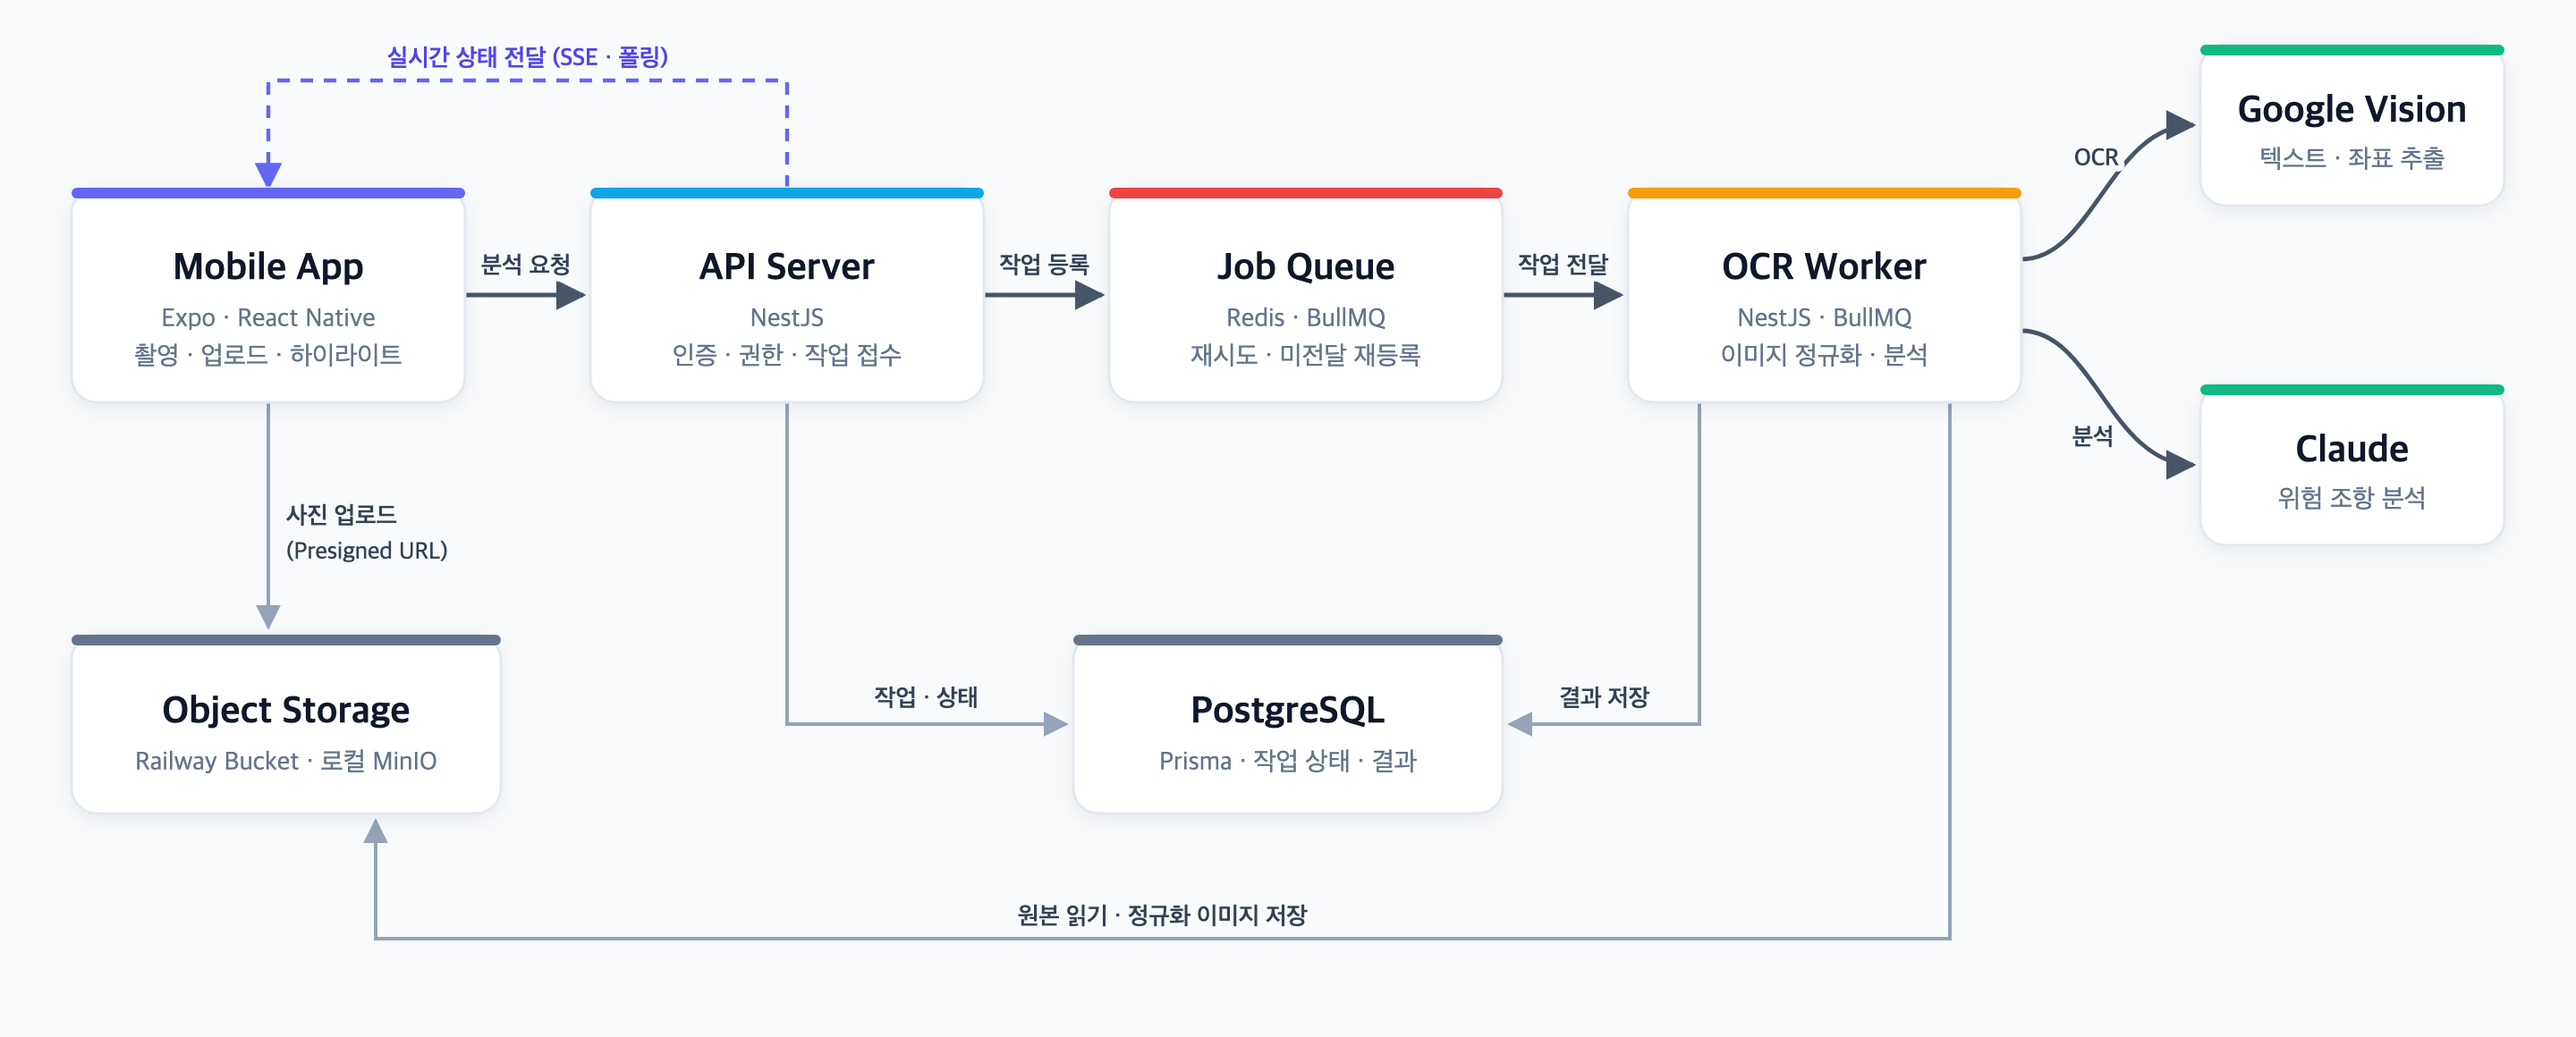
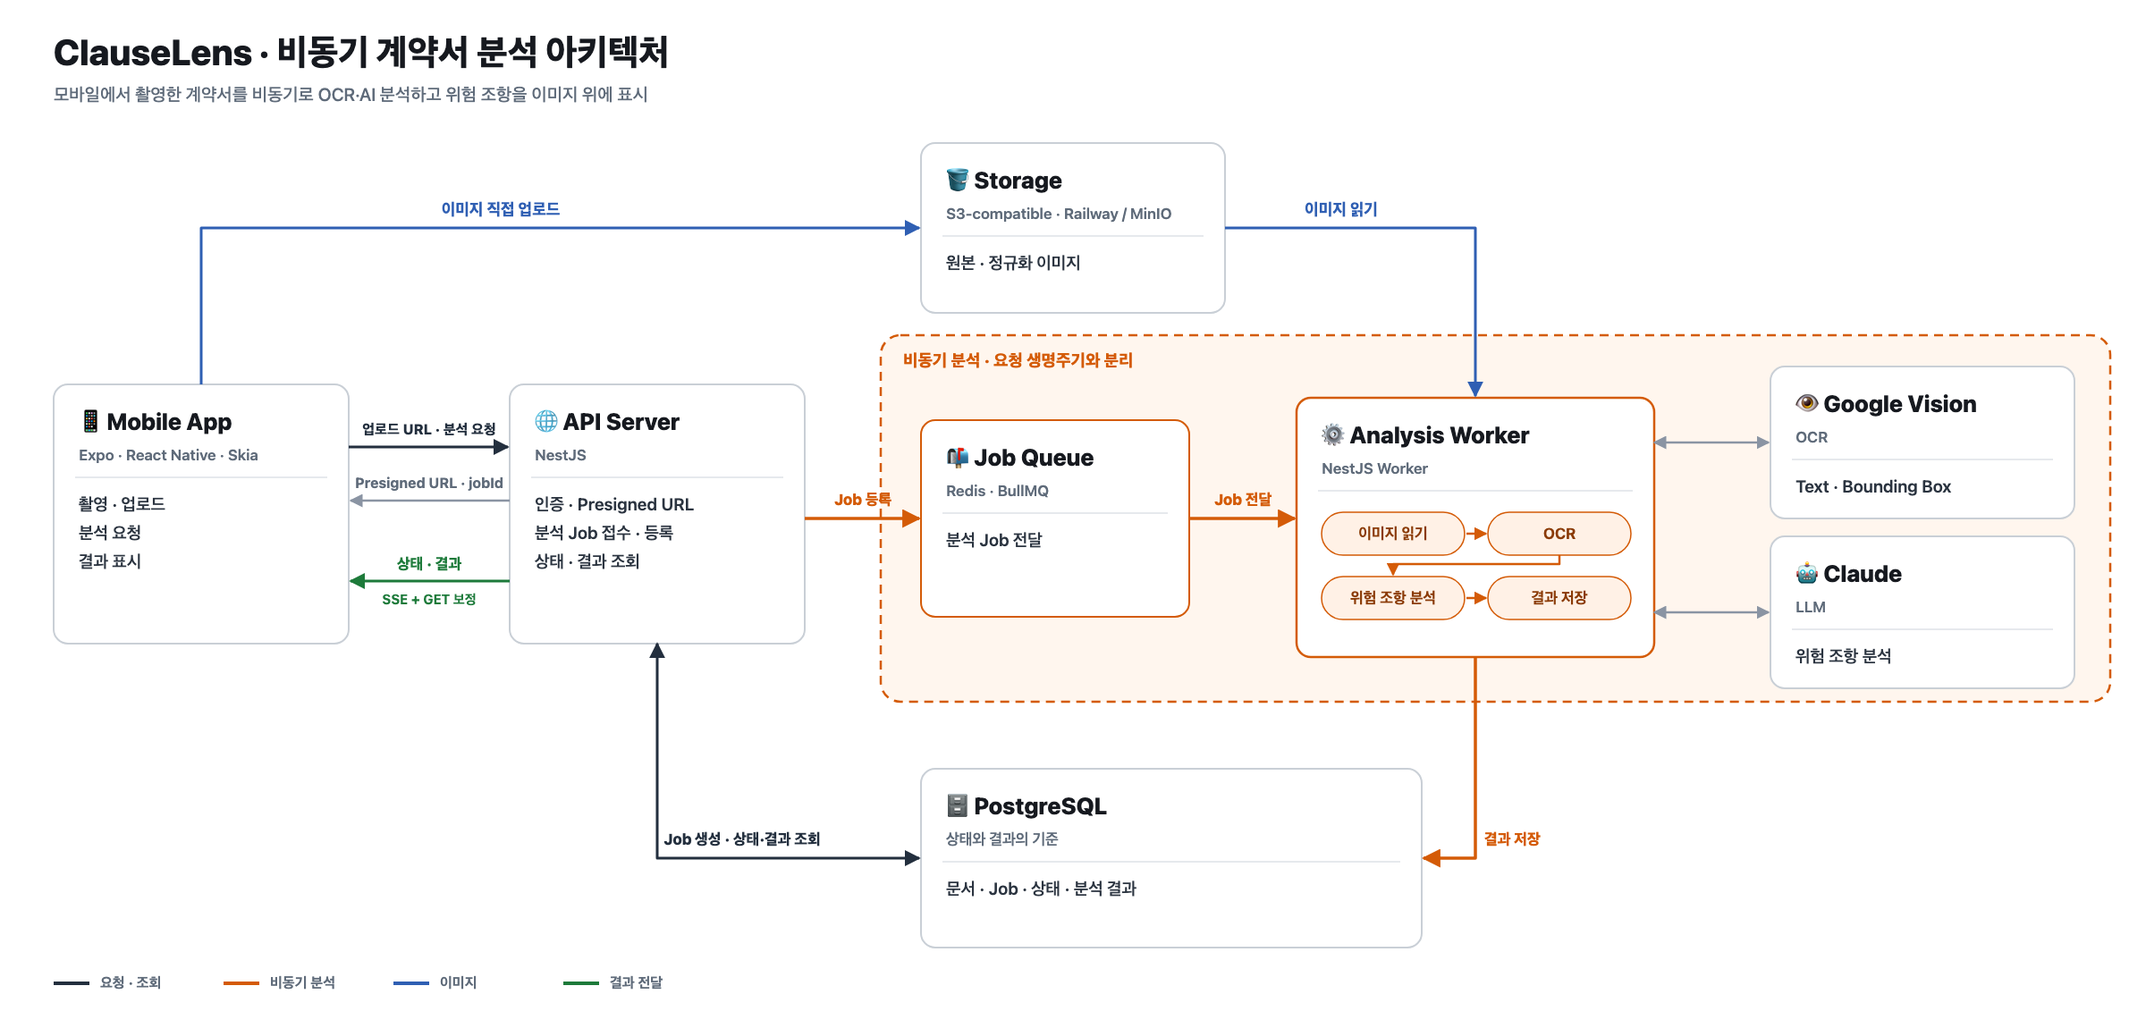
fix(readme,#207): README 아키텍처를 Notion 이미지로 교체
- docs/images/architecture.png를 Notion 포트폴리오 아키텍처로 교체
- 자체 렌더 원본(architecture.source.html) 삭제, alt 갱신

[허점]
- 아키텍처 원본이 Notion에만 있어 수정 시 Notion에서 내보내 다시 반영해야 함

[보완]
- README와 Notion이 같은 이미지를 쓰도록 일원화
- checks.sh ALL PASS

[컨텍스트·토큰]
- 집계 불가: 브랜치 fix/207-readme-images 누적에 해당하는 Claude Code 기록이 없음

diff --git a/README.md b/README.md
@@ -88,7 +88,7 @@ API와 BullMQ Worker를 분리하고 DB를 기준 상태로 두어, **분석이 
 - **API** — 인증 · 권한 · 문서 상태 · 작업 접수
 - **Worker** — OCR · 위험 조항 분석 · 결과 저장
 
-<img src="docs/images/architecture.png" width="100%" alt="ClauseLens 아키텍처: Mobile App → API Server → Job Queue → OCR Worker → Google Vision · Claude, PostgreSQL · Object Storage" />
+<img src="docs/images/architecture.png" width="100%" alt="ClauseLens 비동기 계약서 분석 아키텍처: Mobile App · API Server · Job Queue · Analysis Worker · Google Vision · Claude · Storage · PostgreSQL" />
 
 <sub>전체 요청 흐름 → [백엔드 아키텍처](agents/context/backend-architecture.md) · [업로드·스토리지](agents/context/upload-storage.md)</sub>
 

diff --git a/agents/intent/specs/0085-readme-portfolio/trace.md b/agents/intent/specs/0085-readme-portfolio/trace.md
@@ -9,3 +9,4 @@
 | 2026-11-10 | 스크린샷 3장 주석 처리 | `docs/images/00-hero.png` 등 저장소에 없음 → 깨진 이미지 방지 |
 | 2026-11-10 | 화면 스크린샷 3장을 Notion 포트폴리오에서 가져와 주석 해제 (fix/207) | 사용자 지시. 파일명 · alt가 초안과 동일 |
 | 2026-11-10 | 아키텍처는 README 이미지 유지, Notion 이미지 교체 안 함 | 사용자: "지금 만든 게 더 맞으면 노션 수정". 비교 결과 Notion 쪽이 더 상세(Presigned URL 발급 · Worker 내부 단계)하고 틀린 곳 없음 → 수정 불필요 |
+| 2026-11-10 | README 아키텍처를 Notion 이미지로 교체, 자체 렌더 원본(source.html) 삭제 | 사용자 승인. Notion 쪽이 더 상세하고 README·Notion 이미지 일원화 |
